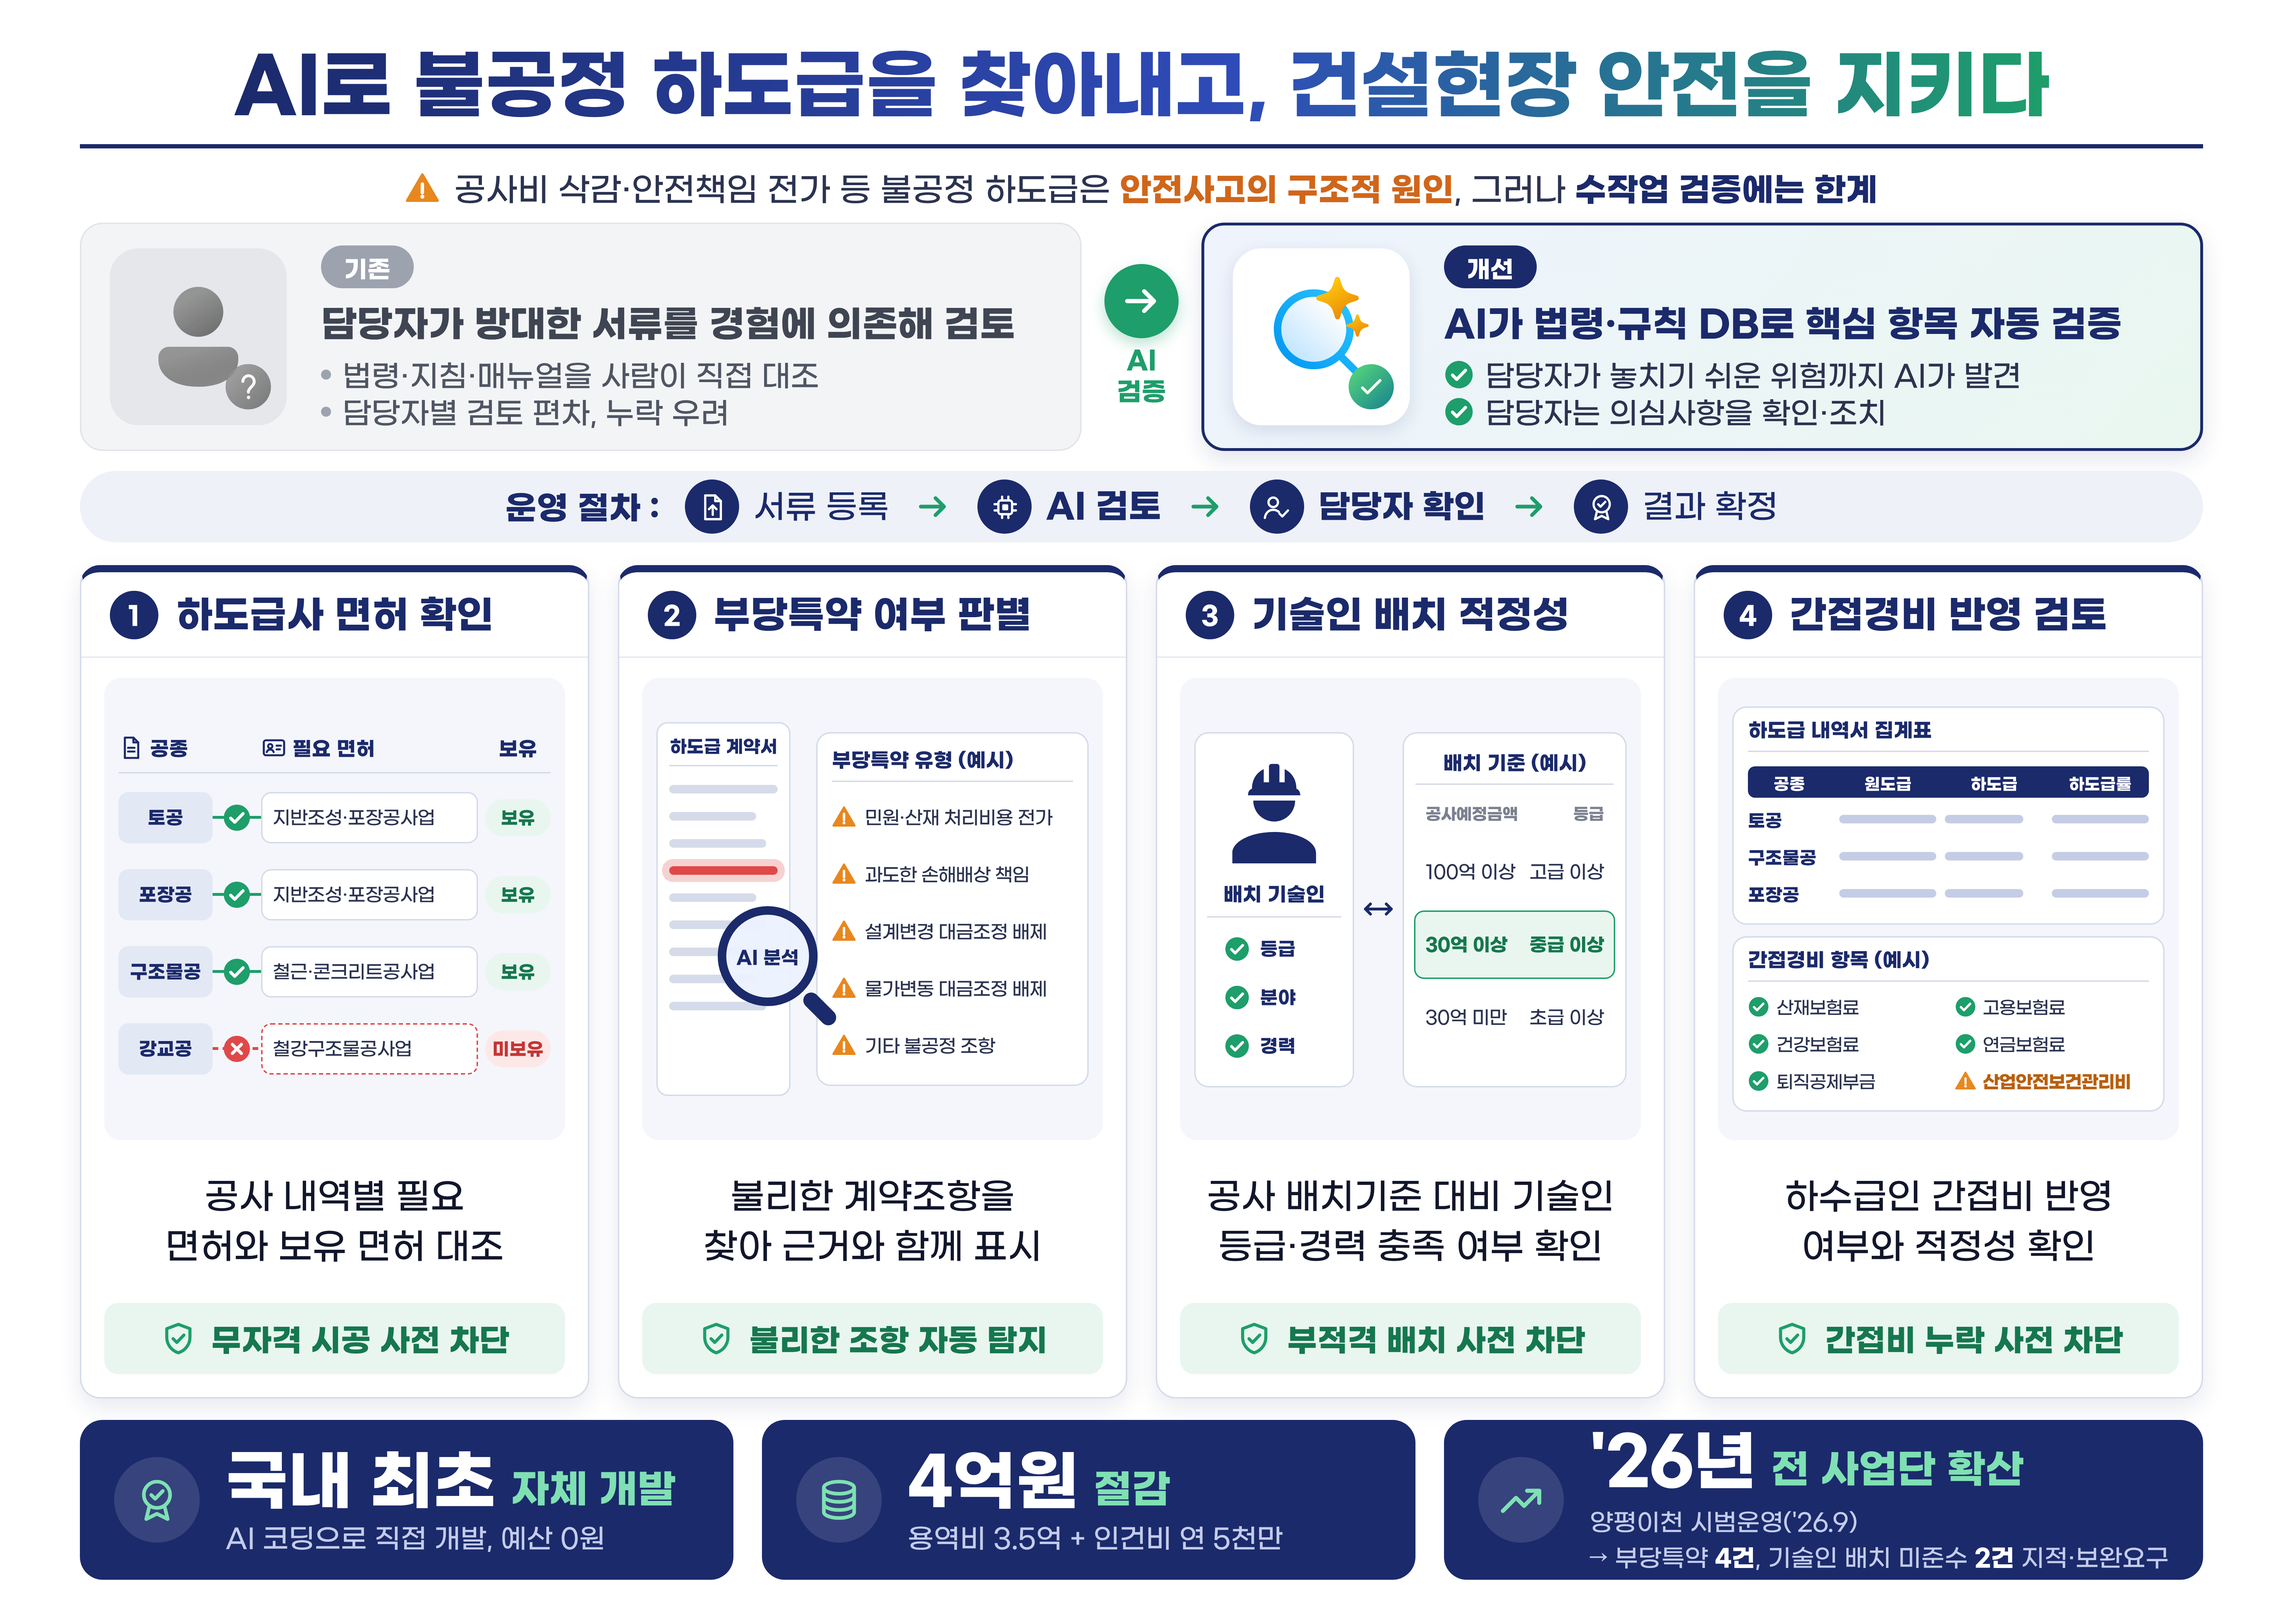
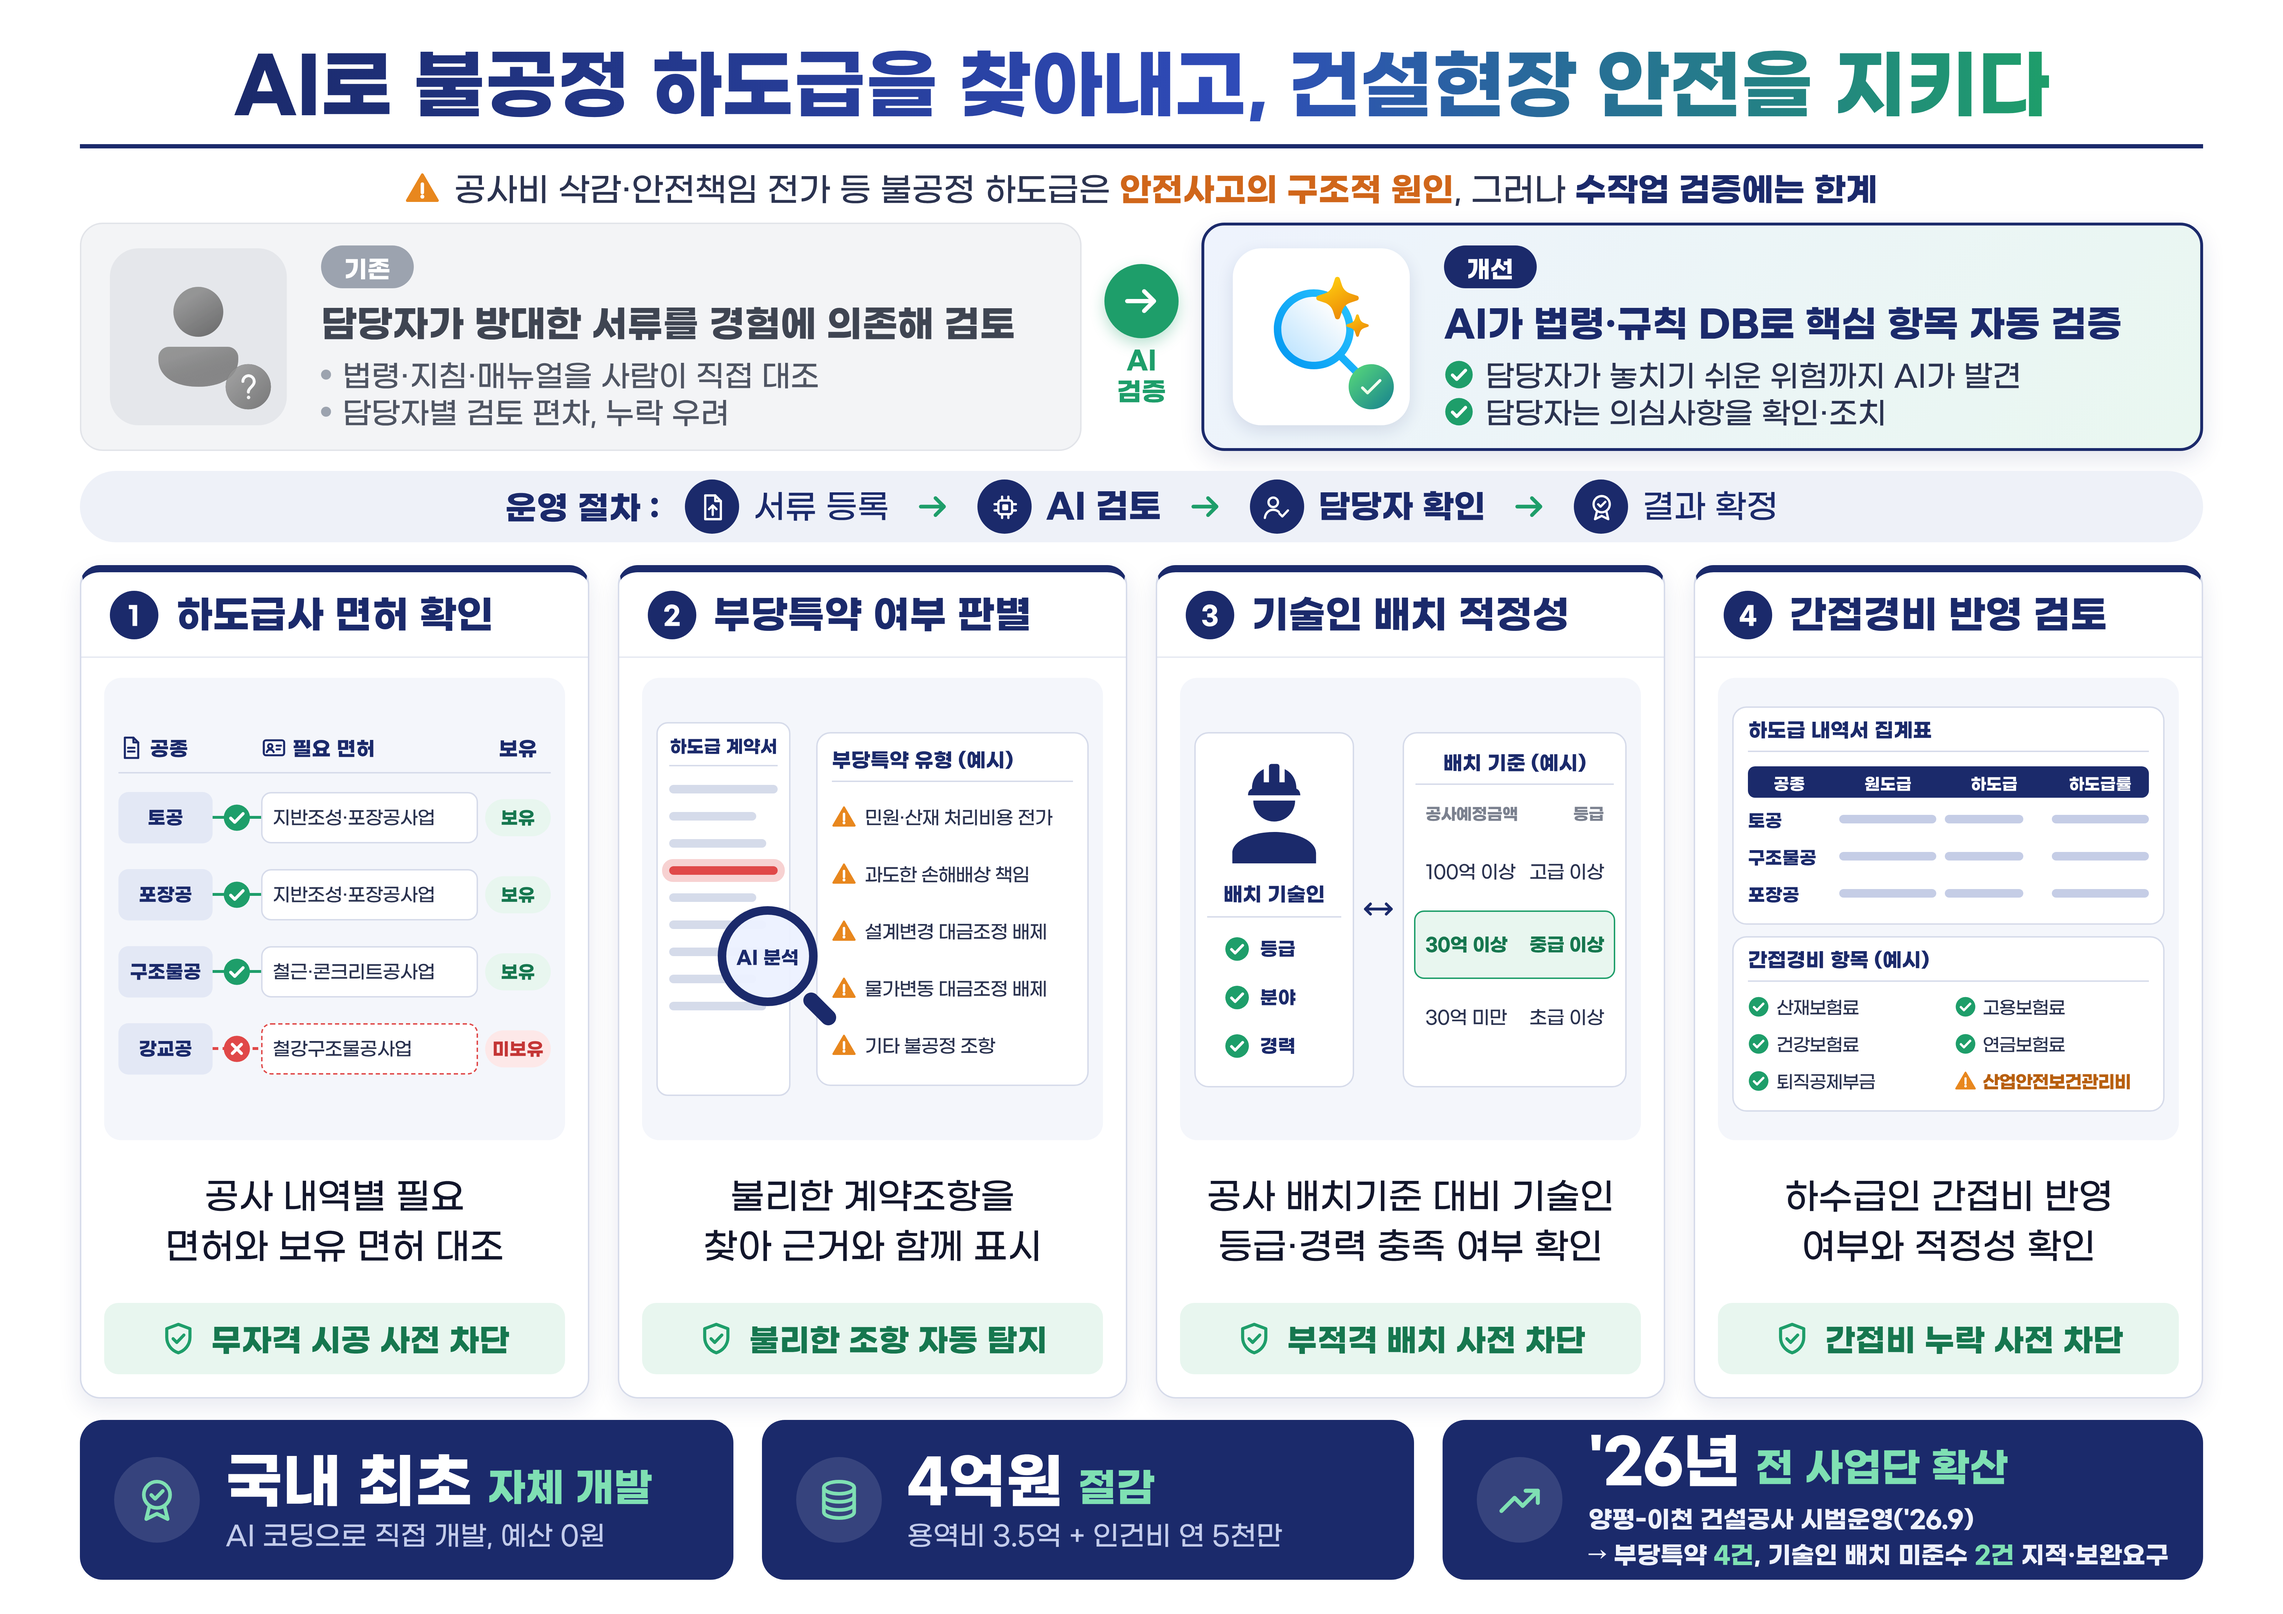
Rename pilot to 양평-이천 건설공사, brighten/bold its caption, shrink stat values
Claude-Session: https://claude.ai/code/session_01T4PzDp9fMWLNqaWs8CukvF

Changed region(s): [[0.6875, 0.8727, 0.9375, 0.9973], [0.0938, 0.9038, 0.3125, 0.9662], [0.4062, 0.9038, 0.5625, 0.9662]]

diff --git a/templates/contract-platform.css b/templates/contract-platform.css
@@ -24,7 +24,7 @@
   --size-panel-point: 21px;
   --size-il: 13px;
   --size-il-title: 14px;
-  --size-stat-value: 46px;
+  --size-stat-value: 42px;
   --size-stat-sub: 28px;
   --size-stat-caption: 19px;
   --size-stat-detail: 17px;
@@ -624,8 +624,10 @@ body {
   gap: 5px;
   margin-top: 2px;
   font-size: var(--size-stat-detail);
+  font-weight: 700;
+  color: #eef1fb;
   line-height: 1.15;
   white-space: nowrap;
 }
-.stat-caption b { font-weight: 700; color: #fff; }
+.stat-caption b { font-weight: 700; color: #7fe0b3; }
 
